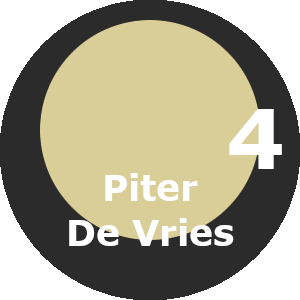
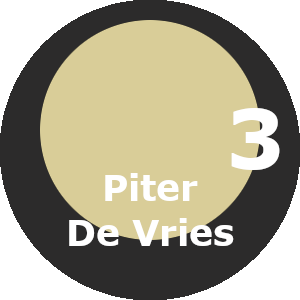
Piter value change and visuals
- Piter De Vries was mistakenly valued at 4, is now correct at 3
- Made strength and total strength values labels and made total stength stand out a lot more

Changed region(s): [[0.75, 0.36, 0.93, 0.57], [0.93, 0.48, 0.96, 0.51]]

diff --git a/index.html b/index.html
@@ -121,7 +121,7 @@
           <div class="columns is-multiline is-mobile has-text-centered is-centered">
             <div class="column is-one-third-tablet is-two-thirds-mobile is-hidden" id="strength-column">
               <div class="field has-text-centered">
-                <input class="input is-rounded has-text-centered" name="strength" id="strength" value="0" readonly>
+				<label id="strength" class="label">0</label>
                 <label id="strength-label" class="label" for="strength">Dialed Strength<br>(Forces + Spice Support)</label>
               </div>
             </div>
@@ -129,7 +129,7 @@
 		  <div class="columns is-multiline is-mobile has-text-centered is-centered">
             <div class="column  is-one-third-tablet is-two-thirds-mobile is-hidden" id="total-strength-column">
               <div class="field has-text-centered">
-                <input class="input is-rounded has-text-centered" name="total-strength" id="total-strength" value="0" readonly>
+				<label id="total-strength" class="label big">0</label>
                 <label id="total-strength-label" class="label" for="total-strength">Total Strength<br>(Dialed Strength + Leader)</label>
               </div>
             </div>

diff --git a/funct.js b/funct.js
@@ -23,7 +23,7 @@ leadervalues[1] = new Array(0, 5, 5, 4, 2, 1)
 leadervalues[2] = new Array(0, 5, 5, 5, 5, 5)
 leadervalues[3] = new Array(0, 6, 5, 3, 3, 2)
 leadervalues[4] = new Array(0, 7, 6, 5, 3, 2)
-leadervalues[5] = new Array(0, 6, 4, 4, 2, 1)
+leadervalues[5] = new Array(0, 6, 4, 3, 2, 1)
 leadervalues[6] = new Array(0, 5, 5, 4, 2, 1)
 leadervalues[7] = new Array(0, 5, 3, 3, 2, 1)
 leadervalues[8] = new Array(0, 0, 4, 3, 2, 1)
@@ -54,9 +54,11 @@ function calcStr() {
     default:
       strength = (forces + spice) / 2
   }
-  $( "#strength" ).val( strength.toString() )
+  //$( "#strength" ).val( strength.toString() )
+  document.getElementById('strength').innerHTML = strength;
   var totalstrength = (strength + leaderstrength + kwisatzbonus)
-  $( "#total-strength" ).val( totalstrength.toString() )
+  //$( "#total-strength" ).val( totalstrength.toString() )
+  document.getElementById('total-strength').innerHTML = totalstrength;
 }
 
 function validateForces() {

diff --git a/what.html b/what.html
@@ -57,6 +57,12 @@
 	  
 	  <big>Changelog</big>
 	  <br>
+	  <chlogvers>1.5 - 13.07.2023</chlogvers><br>
+	  <ul>
+	  <li>- Piter De Vries was mistakenly valued at 4, is now correct at 3</li>
+	  <li>- Made strength and total strength values labels and made total stength stand out a lot more</li>
+	  </ul>
+	  <br>
 	  <chlogvers>1.4 - 24.05.2023</chlogvers><br>
 	  <ul>
 	  <li>- Added ghola selection for tleilaxu</li>

diff --git a/styles.css b/styles.css
@@ -80,6 +80,11 @@ big {
 	font-weight: bold;
 }
 
+.big {
+	font-size: 300%;
+	font-weight: bold;
+}
+
 chlogvers {
 	font-size: 150%;
 	font-weight: bold;
